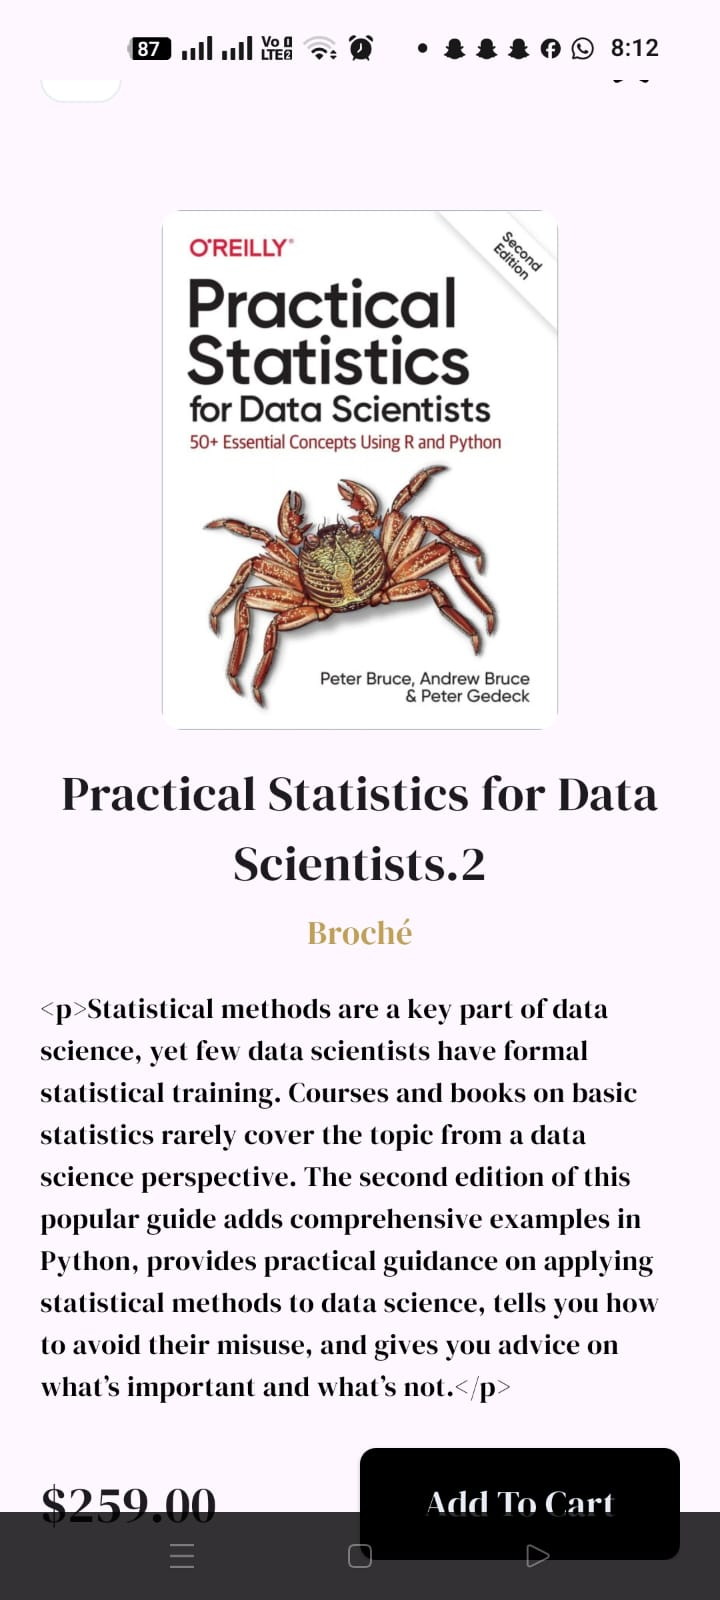
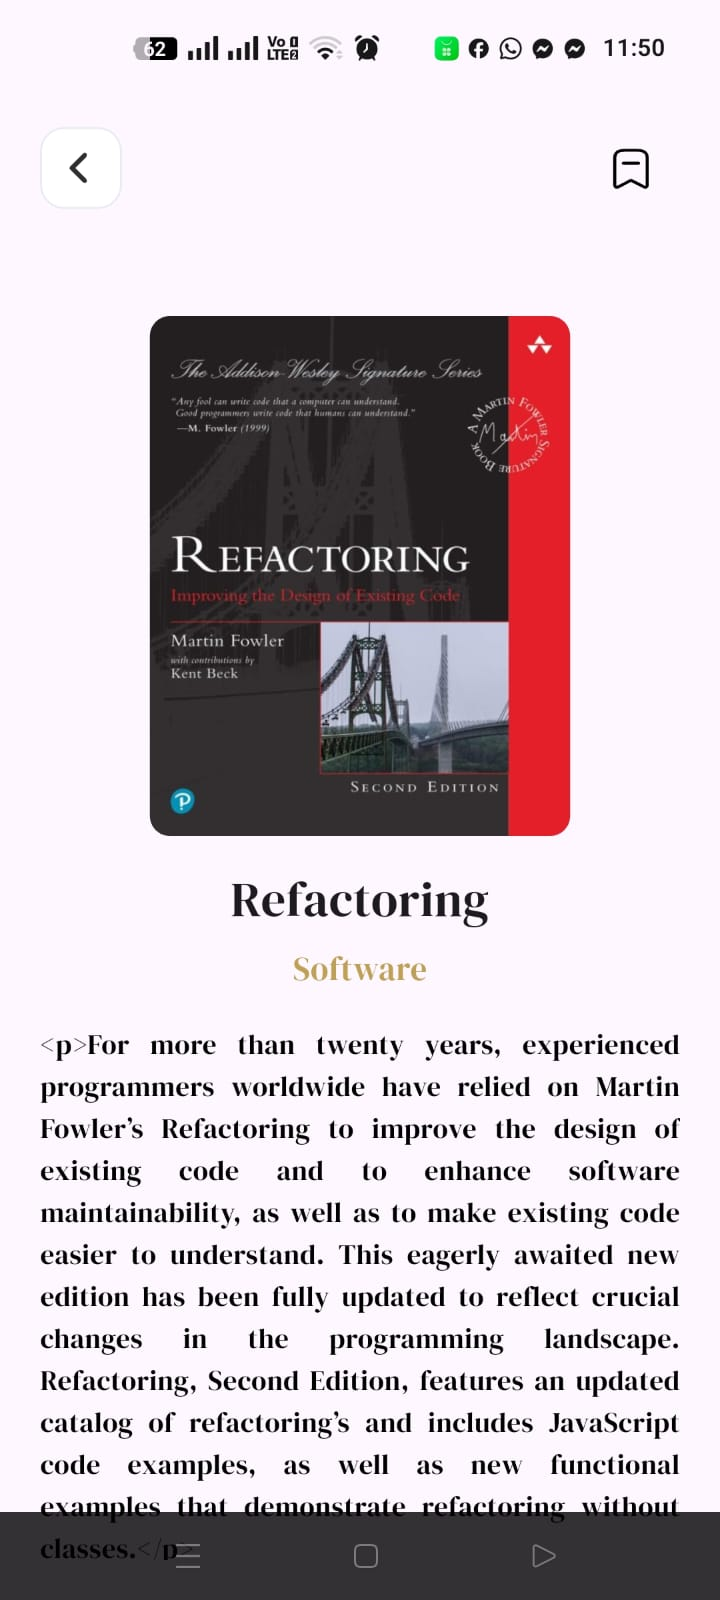
modified

diff --git a/lib/features/product_details.dart/presentation/view/product_details.dart b/lib/features/product_details.dart/presentation/view/product_details.dart
@@ -16,7 +16,7 @@ class ProductDetails extends StatelessWidget {
   Widget build(BuildContext context) {
     return Scaffold(
       body: Padding(
-        padding: const EdgeInsets.only(top: 40, left: 20, right:20, bottom: 20),
+        padding: const EdgeInsets.only(top: 60, left: 20, right:20, bottom: 20),
         child: SingleChildScrollView(
           child: SingleChildScrollView(
             child: Column(
@@ -48,13 +48,14 @@ class ProductDetails extends StatelessWidget {
                   )),
                 Gap(6),
                 Text(
-                  "Broché",
+                  product.category??"",
                   style: TextStyles.caption1.copyWith(
                     color: AppColors.primaryColor,
                   ),
                 ),
                 Gap(16),
                 Text(
+                  textAlign: TextAlign.justify,
                   product.description??"",
                   style: TextStyles.caption2.copyWith(
                     color: AppColors.black,
@@ -64,7 +65,9 @@ class ProductDetails extends StatelessWidget {
                 Gap(20),
                 Row(
                   children: [
-                    Expanded(child: Text("\$${product.price}", style: TextStyles.title)),
+                    Expanded(child: Text("\$${product.price}", style: TextStyles.title.copyWith(
+                      fontSize: 20
+                    ))),
                     Expanded(
                       child: MainButton(
                         minWidth: 250,

diff --git a/lib/features/home/presentation/widgets/best_seller.dart b/lib/features/home/presentation/widgets/best_seller.dart
@@ -37,7 +37,19 @@ class BestSellerBooks extends StatelessWidget {
             ],
           );
         } else {
-          return Column();
+          return Column(
+            crossAxisAlignment: CrossAxisAlignment.start,
+            children: [
+              // TextShimmer(width: 100),
+              // Gap(20),
+              // GridShimmer(
+              //   crossAxisCount: 2,
+              //   mainAxisSpacing: 11,
+              //   crossAxisSpacing: 11,
+              //   childAspectRatio: .6,
+              // ),
+            ],
+          );
         }
       },
     );
